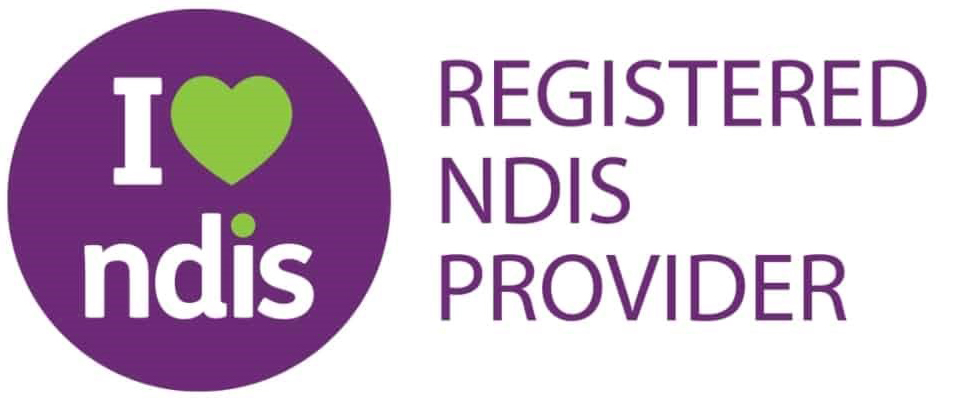
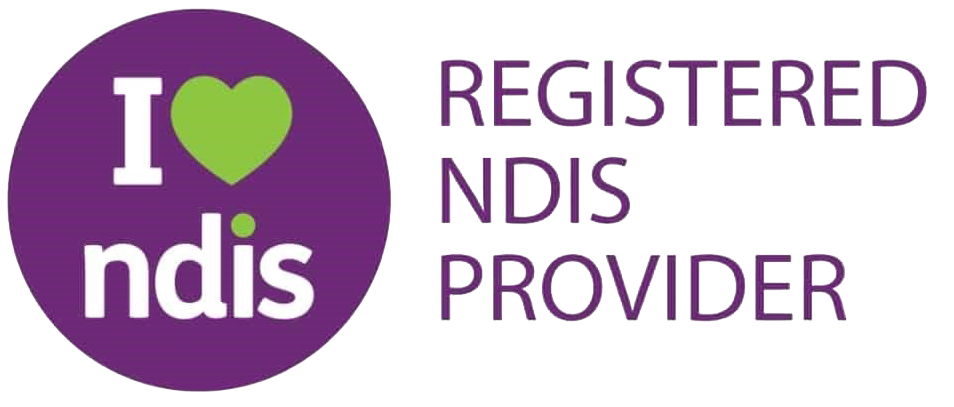
Fix: Footer column image fix

diff --git a/src/components/layout/Footer.tsx b/src/components/layout/Footer.tsx
@@ -51,18 +51,12 @@ export default function Footer() {
       <div className="relative z-10 flex flex-col items-center gap-8 px-[1.5rem] pt-[3rem] text-center sm:px-[2rem] sm:pt-[4rem] md:hidden">
         {/* Logo */}
         <Link href="/" className="relative h-[4.5rem] w-[3.5rem] shrink-0">
-          <Image src="/images/footer-logo-3040ad.png" alt="NALA Properties" fill className="object-contain" />
+          <Image src="/images/footer-logo.png" alt="NALA Properties" fill className="object-contain" />
         </Link>
 
         {/* NDIS */}
-        <div className="flex flex-col items-center gap-3">
-          <div className="relative h-[2.5rem] w-[5.5rem]">
-            <Image src="/images/ndis-badge.png" alt="NDIS Registered Provider" fill className="object-contain" />
-          </div>
-          <div className="flex flex-col gap-1 font-outfit text-[0.875rem] text-body">
-            <p>NDIS SDA Provider Number:</p>
-            <p className="font-bold">{COMPANY_INFO.ndisProvider}</p>
-          </div>
+        <div className="relative h-[4rem] w-[9rem]">
+          <Image src="/images/ndis-badge.png" alt="NDIS Registered Provider" fill className="object-contain" />
         </div>
 
         {/* Email */}
@@ -106,24 +100,20 @@ export default function Footer() {
               : "translate-y-6 opacity-0"
           )}
         >
-          <Image src="/images/footer-logo-3040ad.png" alt="NALA Properties" fill className="object-contain" />
+          <Image src="/images/footer-logo.png" alt="NALA Properties" fill className="object-contain" />
         </Link>
 
-        {/* NDIS badge + provider number */}
+        {/* NDIS badge */}
         <div
           className={cn(
-            "flex shrink-0 flex-col gap-[1.125rem] rounded-[0.875rem] bg-light px-7 transition-all duration-[1500ms] delay-150 ease-out",
+            "shrink-0 transition-all duration-[1500ms] delay-150 ease-out",
             isVisible
               ? "translate-y-0 opacity-100"
               : "translate-y-6 opacity-0"
           )}
         >
-          <div className="relative h-[clamp(2.5rem,3.11vw,3.74rem)] short:h-[5vh] w-[clamp(5.5rem,7.3vw,8.77rem)] short:w-[10vh]">
+          <div className="relative h-[clamp(3.5rem,4.5vw,5.5rem)] short:h-[7vh] w-[clamp(7.5rem,10vw,12rem)] short:w-[14vh]">
             <Image src="/images/ndis-badge.png" alt="NDIS Registered Provider" fill className="object-contain" />
-          </div>
-          <div className="flex flex-col gap-[0.75rem] font-outfit text-[clamp(0.875rem,1.04vw,1.25rem)] short:text-[1.9vh] text-body">
-            <p className="leading-[0.7em]">NDIS SDA Provider Number:</p>
-            <p className="font-bold leading-[0.8em]">{COMPANY_INFO.ndisProvider}</p>
           </div>
         </div>
 
